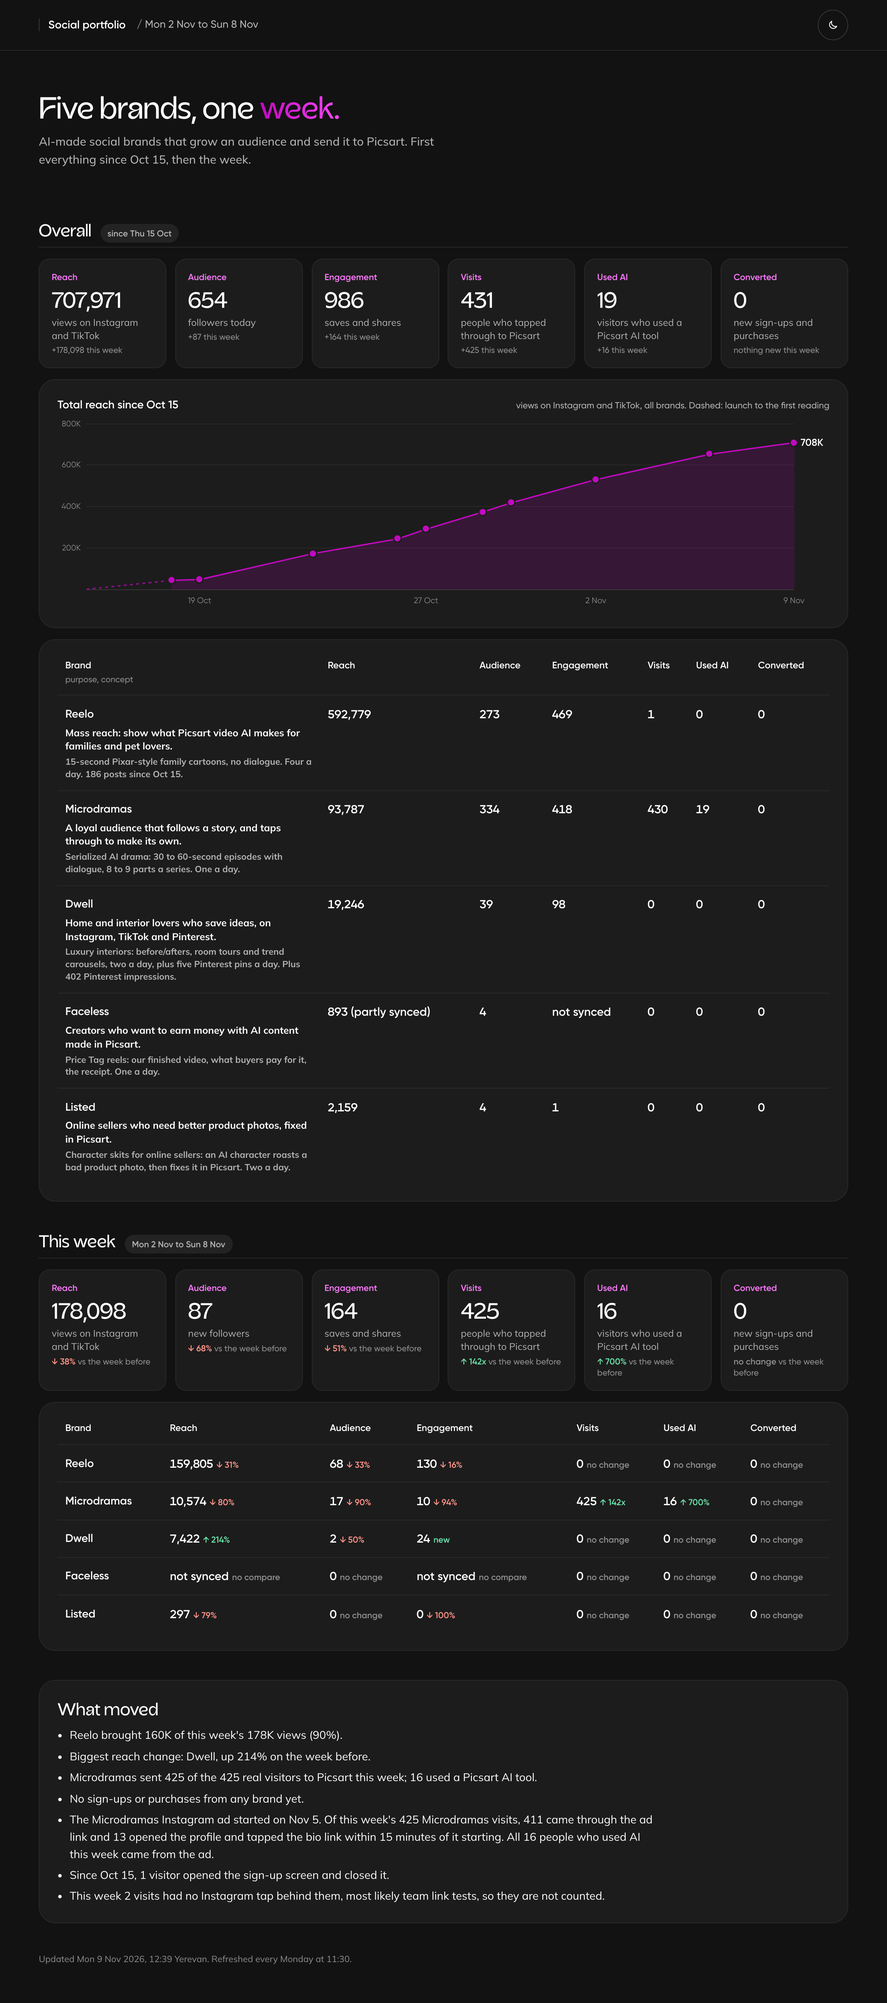
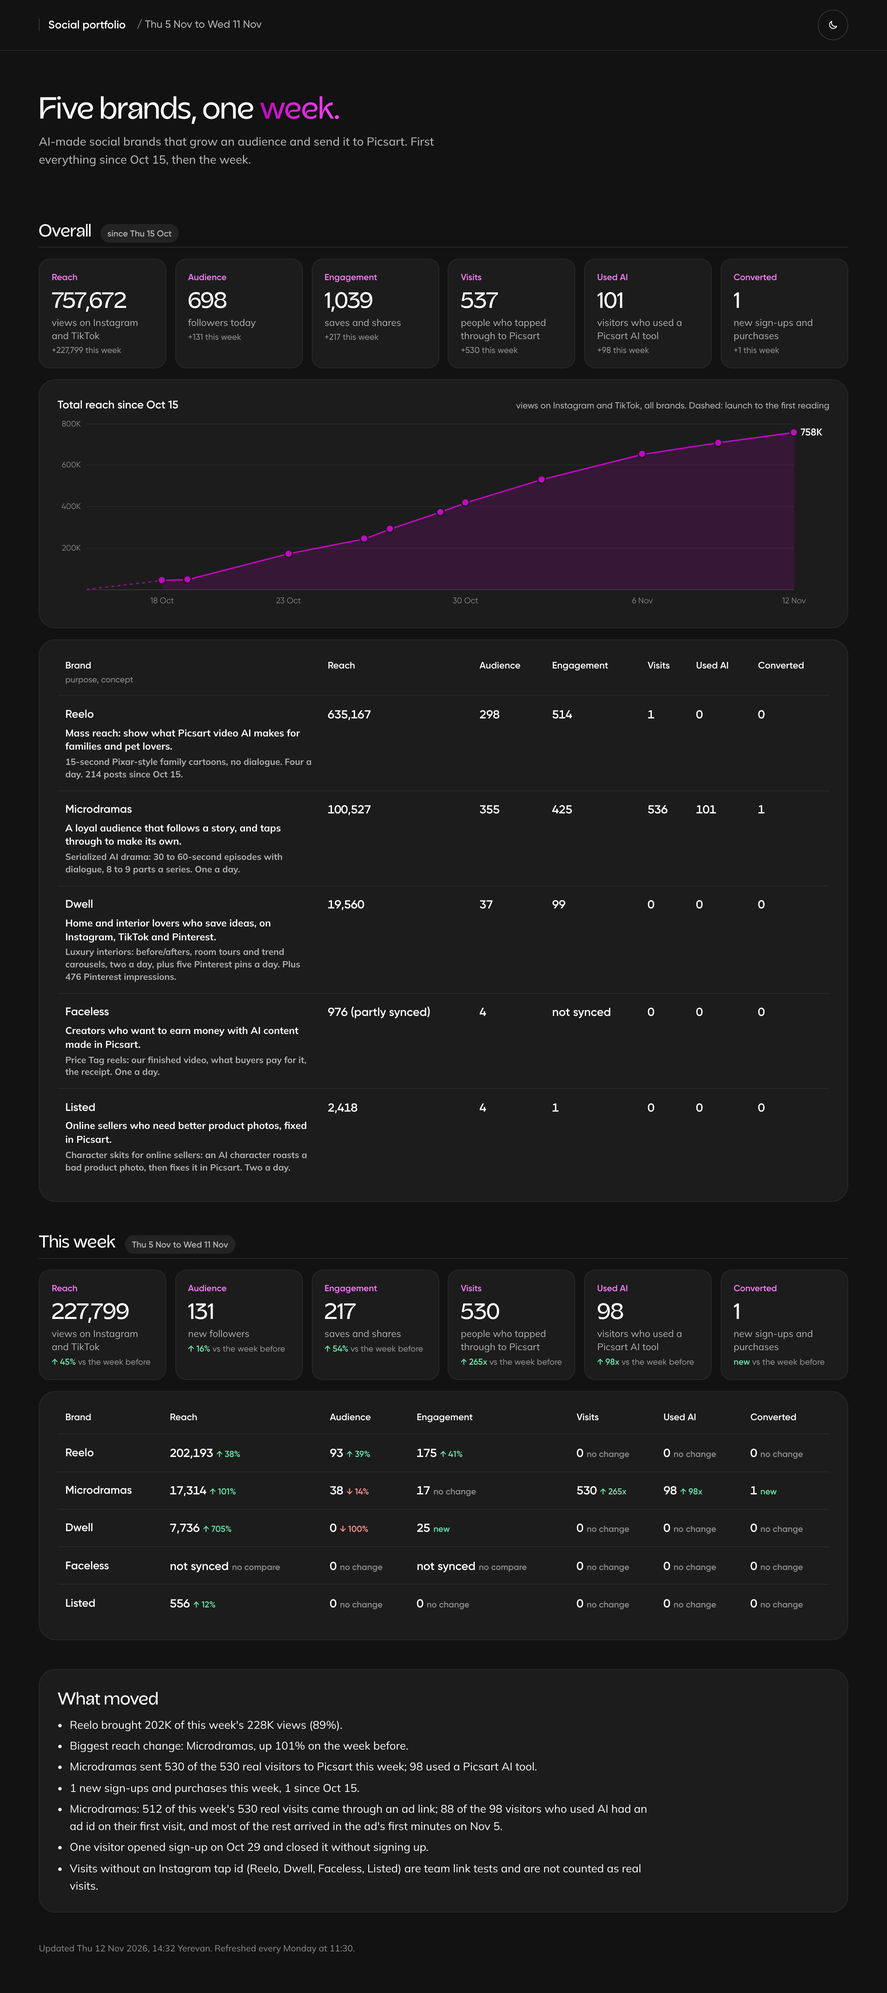
chore(portfolio): weekly refresh 2026-11-12

diff --git a/portfolio/index.html b/portfolio/index.html
@@ -94,7 +94,7 @@ small { display: block; color: var(--faint); font-family: var(--ui); font-weight
 <header class="top">
   <div class="top-in">
     <a class="brand" href="#main" aria-label="Social portfolio, back to top"><b>Social portfolio</b></a>
-    <span class="chname">/ Mon 2 Nov to Sun 8 Nov</span>
+    <span class="chname">/ Thu 5 Nov to Wed 11 Nov</span>
     <div class="tools">
       <button type="button" class="ibtn theme-btn" id="theme-btn" aria-label="Switch light or dark theme">
         <svg class="icon sun" aria-hidden="true"><use href="#i-sun"/></svg><svg class="icon moon" aria-hidden="true"><use href="#i-moon"/></svg>
@@ -110,33 +110,33 @@ small { display: block; color: var(--faint); font-family: var(--ui); font-weight
 
   <section class="sec" aria-labelledby="o-h">
     <div class="sec-head"><h2 id="o-h">Overall</h2><span class="pill">since Thu 15 Oct</span></div>
-    <div class="stats"><div class="stat"><span class="cls">Reach</span><b>707,971</b><span>views on Instagram and TikTok</span><small>+178,098 this week</small></div><div class="stat"><span class="cls">Audience</span><b>654</b><span>followers today</span><small>+87 this week</small></div><div class="stat"><span class="cls">Engagement</span><b>986</b><span>saves and shares</span><small>+164 this week</small></div><div class="stat"><span class="cls">Visits</span><b>431</b><span>people who tapped through to Picsart</span><small>+425 this week</small></div><div class="stat"><span class="cls">Used AI</span><b>19</b><span>visitors who used a Picsart AI tool</span><small>+16 this week</small></div><div class="stat"><span class="cls">Converted</span><b>0</b><span>new sign-ups and purchases</span><small>nothing new this week</small></div></div>
+    <div class="stats"><div class="stat"><span class="cls">Reach</span><b>757,672</b><span>views on Instagram and TikTok</span><small>+227,799 this week</small></div><div class="stat"><span class="cls">Audience</span><b>698</b><span>followers today</span><small>+131 this week</small></div><div class="stat"><span class="cls">Engagement</span><b>1,039</b><span>saves and shares</span><small>+217 this week</small></div><div class="stat"><span class="cls">Visits</span><b>537</b><span>people who tapped through to Picsart</span><small>+530 this week</small></div><div class="stat"><span class="cls">Used AI</span><b>101</b><span>visitors who used a Picsart AI tool</span><small>+98 this week</small></div><div class="stat"><span class="cls">Converted</span><b>1</b><span>new sign-ups and purchases</span><small>+1 this week</small></div></div>
     <div class="panel chart">
       <div class="chart-head"><h3>Total reach since Oct 15</h3><span class="legend">views on Instagram and TikTok, all brands. Dashed: launch to the first reading</span></div>
-      <div class="lc"><div class="plot"><span class="gl" style="top:75.00%"><em>200K</em></span><span class="gl" style="top:50.00%"><em>400K</em></span><span class="gl" style="top:25.00%"><em>600K</em></span><span class="gl" style="top:0.00%"><em>800K</em></span><svg viewBox="0 0 100 100" preserveAspectRatio="none" aria-hidden="true"><polygon points="12.00,100 12.00,94.57 16.00,94.08 32.00,78.43 44.00,69.54 48.00,63.68 56.00,53.35 60.00,47.79 72.00,33.77 88.00,18.51 100.00,11.50 100,100" class="area"/><line x1="0" y1="100" x2="12.00" y2="94.57" class="gap"/><polyline points="12.00,94.57 16.00,94.08 32.00,78.43 44.00,69.54 48.00,63.68 56.00,53.35 60.00,47.79 72.00,33.77 88.00,18.51 100.00,11.50" class="line"/></svg><i class="pt" style="left:12.00%;top:94.57%" title="Sun 18 Oct: 43,455 views since Oct 15"></i><i class="pt" style="left:16.00%;top:94.08%" title="Mon 19 Oct: 47,382 views since Oct 15"></i><i class="pt" style="left:32.00%;top:78.43%" title="Fri 23 Oct: 172,542 views since Oct 15"></i><i class="pt" style="left:44.00%;top:69.54%" title="Mon 26 Oct: 243,696 views since Oct 15"></i><i class="pt" style="left:48.00%;top:63.68%" title="Tue 27 Oct: 290,562 views since Oct 15"></i><i class="pt" style="left:56.00%;top:53.35%" title="Thu 29 Oct: 373,202 views since Oct 15"></i><i class="pt" style="left:60.00%;top:47.79%" title="Fri 30 Oct: 417,714 views since Oct 15"></i><i class="pt" style="left:72.00%;top:33.77%" title="Mon 2 Nov: 529,873 views since Oct 15"></i><i class="pt" style="left:88.00%;top:18.51%" title="Fri 6 Nov: 651,929 views since Oct 15"></i><i class="pt" style="left:100.00%;top:11.50%" title="Mon 9 Nov: 707,971 views since Oct 15"></i><b class="last" style="left:100.00%;top:11.50%">708K</b></div><div class="xl"><span style="left:16.00%">19 Oct</span><span style="left:48.00%">27 Oct</span><span style="left:72.00%">2 Nov</span><span style="left:100.00%">9 Nov</span></div></div>
+      <div class="lc"><div class="plot"><span class="gl" style="top:75.00%"><em>200K</em></span><span class="gl" style="top:50.00%"><em>400K</em></span><span class="gl" style="top:25.00%"><em>600K</em></span><span class="gl" style="top:0.00%"><em>800K</em></span><svg viewBox="0 0 100 100" preserveAspectRatio="none" aria-hidden="true"><polygon points="10.71,100 10.71,94.57 14.29,94.08 28.57,78.43 39.29,69.54 42.86,63.68 50.00,53.35 53.57,47.79 64.29,33.77 78.57,18.51 89.29,11.50 100.00,5.29 100,100" class="area"/><line x1="0" y1="100" x2="10.71" y2="94.57" class="gap"/><polyline points="10.71,94.57 14.29,94.08 28.57,78.43 39.29,69.54 42.86,63.68 50.00,53.35 53.57,47.79 64.29,33.77 78.57,18.51 89.29,11.50 100.00,5.29" class="line"/></svg><i class="pt" style="left:10.71%;top:94.57%" title="Sun 18 Oct: 43,455 views since Oct 15"></i><i class="pt" style="left:14.29%;top:94.08%" title="Mon 19 Oct: 47,382 views since Oct 15"></i><i class="pt" style="left:28.57%;top:78.43%" title="Fri 23 Oct: 172,542 views since Oct 15"></i><i class="pt" style="left:39.29%;top:69.54%" title="Mon 26 Oct: 243,696 views since Oct 15"></i><i class="pt" style="left:42.86%;top:63.68%" title="Tue 27 Oct: 290,562 views since Oct 15"></i><i class="pt" style="left:50.00%;top:53.35%" title="Thu 29 Oct: 373,202 views since Oct 15"></i><i class="pt" style="left:53.57%;top:47.79%" title="Fri 30 Oct: 417,714 views since Oct 15"></i><i class="pt" style="left:64.29%;top:33.77%" title="Mon 2 Nov: 529,873 views since Oct 15"></i><i class="pt" style="left:78.57%;top:18.51%" title="Fri 6 Nov: 651,929 views since Oct 15"></i><i class="pt" style="left:89.29%;top:11.50%" title="Mon 9 Nov: 707,983 views since Oct 15"></i><i class="pt" style="left:100.00%;top:5.29%" title="Thu 12 Nov: 757,672 views since Oct 15"></i><b class="last" style="left:100.00%;top:5.29%">758K</b></div><div class="xl"><span style="left:10.71%">18 Oct</span><span style="left:28.57%">23 Oct</span><span style="left:53.57%">30 Oct</span><span style="left:78.57%">6 Nov</span><span style="left:100.00%">12 Nov</span></div></div>
     </div>
     <div class="panel tbl">
       <table class="pf pf-all">
         <thead><tr><th scope="col">Brand<small>purpose, concept</small></th><th scope="col">Reach</th><th scope="col">Audience</th><th scope="col">Engagement</th><th scope="col">Visits</th><th scope="col">Used AI</th><th scope="col">Converted</th></tr></thead>
-        <tbody><tr><th scope="row"><span class="bn">Reelo</span><span class="pp">Mass reach: show what Picsart video AI makes for families and pet lovers.</span><span class="cc">15-second Pixar-style family cartoons, no dialogue. Four a day. 186 posts since Oct 15.</span></th><td data-label="Reach"><b class="n">592,779</b></td><td data-label="Audience"><b class="n">273</b></td><td data-label="Engagement"><b class="n">469</b></td><td data-label="Visits"><b class="n">1</b></td><td data-label="Used AI"><b class="n">0</b></td><td data-label="Converted"><b class="n">0</b></td></tr><tr><th scope="row"><span class="bn">Microdramas</span><span class="pp">A loyal audience that follows a story, and taps through to make its own.</span><span class="cc">Serialized AI drama: 30 to 60-second episodes with dialogue, 8 to 9 parts a series. One a day. </span></th><td data-label="Reach"><b class="n">93,787</b></td><td data-label="Audience"><b class="n">334</b></td><td data-label="Engagement"><b class="n">418</b></td><td data-label="Visits"><b class="n">430</b></td><td data-label="Used AI"><b class="n">19</b></td><td data-label="Converted"><b class="n">0</b></td></tr><tr><th scope="row"><span class="bn">Dwell</span><span class="pp">Home and interior lovers who save ideas, on Instagram, TikTok and Pinterest.</span><span class="cc">Luxury interiors: before/afters, room tours and trend carousels, two a day, plus five Pinterest pins a day. Plus 402 Pinterest impressions. </span></th><td data-label="Reach"><b class="n">19,246</b></td><td data-label="Audience"><b class="n">39</b></td><td data-label="Engagement"><b class="n">98</b></td><td data-label="Visits"><b class="n">0</b></td><td data-label="Used AI"><b class="n">0</b></td><td data-label="Converted"><b class="n">0</b></td></tr><tr><th scope="row"><span class="bn">Faceless</span><span class="pp">Creators who want to earn money with AI content made in Picsart.</span><span class="cc">Price Tag reels: our finished video, what buyers pay for it, the receipt. One a day. </span></th><td data-label="Reach"><b class="n">893 (partly synced)</b></td><td data-label="Audience"><b class="n">4</b></td><td data-label="Engagement"><b class="n">not synced</b></td><td data-label="Visits"><b class="n">0</b></td><td data-label="Used AI"><b class="n">0</b></td><td data-label="Converted"><b class="n">0</b></td></tr><tr><th scope="row"><span class="bn">Listed</span><span class="pp">Online sellers who need better product photos, fixed in Picsart.</span><span class="cc">Character skits for online sellers: an AI character roasts a bad product photo, then fixes it in Picsart. Two a day. </span></th><td data-label="Reach"><b class="n">2,159</b></td><td data-label="Audience"><b class="n">4</b></td><td data-label="Engagement"><b class="n">1</b></td><td data-label="Visits"><b class="n">0</b></td><td data-label="Used AI"><b class="n">0</b></td><td data-label="Converted"><b class="n">0</b></td></tr></tbody>
+        <tbody><tr><th scope="row"><span class="bn">Reelo</span><span class="pp">Mass reach: show what Picsart video AI makes for families and pet lovers.</span><span class="cc">15-second Pixar-style family cartoons, no dialogue. Four a day. 214 posts since Oct 15.</span></th><td data-label="Reach"><b class="n">635,167</b></td><td data-label="Audience"><b class="n">298</b></td><td data-label="Engagement"><b class="n">514</b></td><td data-label="Visits"><b class="n">1</b></td><td data-label="Used AI"><b class="n">0</b></td><td data-label="Converted"><b class="n">0</b></td></tr><tr><th scope="row"><span class="bn">Microdramas</span><span class="pp">A loyal audience that follows a story, and taps through to make its own.</span><span class="cc">Serialized AI drama: 30 to 60-second episodes with dialogue, 8 to 9 parts a series. One a day. </span></th><td data-label="Reach"><b class="n">100,527</b></td><td data-label="Audience"><b class="n">355</b></td><td data-label="Engagement"><b class="n">425</b></td><td data-label="Visits"><b class="n">536</b></td><td data-label="Used AI"><b class="n">101</b></td><td data-label="Converted"><b class="n">1</b></td></tr><tr><th scope="row"><span class="bn">Dwell</span><span class="pp">Home and interior lovers who save ideas, on Instagram, TikTok and Pinterest.</span><span class="cc">Luxury interiors: before/afters, room tours and trend carousels, two a day, plus five Pinterest pins a day. Plus 476 Pinterest impressions. </span></th><td data-label="Reach"><b class="n">19,560</b></td><td data-label="Audience"><b class="n">37</b></td><td data-label="Engagement"><b class="n">99</b></td><td data-label="Visits"><b class="n">0</b></td><td data-label="Used AI"><b class="n">0</b></td><td data-label="Converted"><b class="n">0</b></td></tr><tr><th scope="row"><span class="bn">Faceless</span><span class="pp">Creators who want to earn money with AI content made in Picsart.</span><span class="cc">Price Tag reels: our finished video, what buyers pay for it, the receipt. One a day. </span></th><td data-label="Reach"><b class="n">976 (partly synced)</b></td><td data-label="Audience"><b class="n">4</b></td><td data-label="Engagement"><b class="n">not synced</b></td><td data-label="Visits"><b class="n">0</b></td><td data-label="Used AI"><b class="n">0</b></td><td data-label="Converted"><b class="n">0</b></td></tr><tr><th scope="row"><span class="bn">Listed</span><span class="pp">Online sellers who need better product photos, fixed in Picsart.</span><span class="cc">Character skits for online sellers: an AI character roasts a bad product photo, then fixes it in Picsart. Two a day. </span></th><td data-label="Reach"><b class="n">2,418</b></td><td data-label="Audience"><b class="n">4</b></td><td data-label="Engagement"><b class="n">1</b></td><td data-label="Visits"><b class="n">0</b></td><td data-label="Used AI"><b class="n">0</b></td><td data-label="Converted"><b class="n">0</b></td></tr></tbody>
       </table>
     </div>
   </section>
 
   <section class="sec" aria-labelledby="w-h">
-    <div class="sec-head"><h2 id="w-h">This week</h2><span class="pill">Mon 2 Nov to Sun 8 Nov</span></div>
-    <div class="stats"><div class="stat"><span class="cls">Reach</span><b>178,098</b><span>views on Instagram and TikTok</span><small><span class="wow down">&darr; 38%</span> vs the week before</small></div><div class="stat"><span class="cls">Audience</span><b>87</b><span>new followers</span><small><span class="wow down">&darr; 68%</span> vs the week before</small></div><div class="stat"><span class="cls">Engagement</span><b>164</b><span>saves and shares</span><small><span class="wow down">&darr; 51%</span> vs the week before</small></div><div class="stat"><span class="cls">Visits</span><b>425</b><span>people who tapped through to Picsart</span><small><span class="wow up">&uarr; 142x</span> vs the week before</small></div><div class="stat"><span class="cls">Used AI</span><b>16</b><span>visitors who used a Picsart AI tool</span><small><span class="wow up">&uarr; 700%</span> vs the week before</small></div><div class="stat"><span class="cls">Converted</span><b>0</b><span>new sign-ups and purchases</span><small><span class="wow">no change</span> vs the week before</small></div></div>
+    <div class="sec-head"><h2 id="w-h">This week</h2><span class="pill">Thu 5 Nov to Wed 11 Nov</span></div>
+    <div class="stats"><div class="stat"><span class="cls">Reach</span><b>227,799</b><span>views on Instagram and TikTok</span><small><span class="wow up">&uarr; 45%</span> vs the week before</small></div><div class="stat"><span class="cls">Audience</span><b>131</b><span>new followers</span><small><span class="wow up">&uarr; 16%</span> vs the week before</small></div><div class="stat"><span class="cls">Engagement</span><b>217</b><span>saves and shares</span><small><span class="wow up">&uarr; 54%</span> vs the week before</small></div><div class="stat"><span class="cls">Visits</span><b>530</b><span>people who tapped through to Picsart</span><small><span class="wow up">&uarr; 265x</span> vs the week before</small></div><div class="stat"><span class="cls">Used AI</span><b>98</b><span>visitors who used a Picsart AI tool</span><small><span class="wow up">&uarr; 98x</span> vs the week before</small></div><div class="stat"><span class="cls">Converted</span><b>1</b><span>new sign-ups and purchases</span><small><span class="wow up">new</span> vs the week before</small></div></div>
     <div class="panel tbl">
       <table class="pf pf-week">
         <thead><tr><th scope="col">Brand</th><th scope="col">Reach</th><th scope="col">Audience</th><th scope="col">Engagement</th><th scope="col">Visits</th><th scope="col">Used AI</th><th scope="col">Converted</th></tr></thead>
-        <tbody><tr><th scope="row"><span class="bn">Reelo</span></th><td data-label="Reach"><b class="n">159,805</b><span class="wow down">&darr; 31%</span></td><td data-label="Audience"><b class="n">68</b><span class="wow down">&darr; 33%</span></td><td data-label="Engagement"><b class="n">130</b><span class="wow down">&darr; 16%</span></td><td data-label="Visits"><b class="n">0</b><span class="wow">no change</span></td><td data-label="Used AI"><b class="n">0</b><span class="wow">no change</span></td><td data-label="Converted"><b class="n">0</b><span class="wow">no change</span></td></tr><tr><th scope="row"><span class="bn">Microdramas</span></th><td data-label="Reach"><b class="n">10,574</b><span class="wow down">&darr; 80%</span></td><td data-label="Audience"><b class="n">17</b><span class="wow down">&darr; 90%</span></td><td data-label="Engagement"><b class="n">10</b><span class="wow down">&darr; 94%</span></td><td data-label="Visits"><b class="n">425</b><span class="wow up">&uarr; 142x</span></td><td data-label="Used AI"><b class="n">16</b><span class="wow up">&uarr; 700%</span></td><td data-label="Converted"><b class="n">0</b><span class="wow">no change</span></td></tr><tr><th scope="row"><span class="bn">Dwell</span></th><td data-label="Reach"><b class="n">7,422</b><span class="wow up">&uarr; 214%</span></td><td data-label="Audience"><b class="n">2</b><span class="wow down">&darr; 50%</span></td><td data-label="Engagement"><b class="n">24</b><span class="wow up">new</span></td><td data-label="Visits"><b class="n">0</b><span class="wow">no change</span></td><td data-label="Used AI"><b class="n">0</b><span class="wow">no change</span></td><td data-label="Converted"><b class="n">0</b><span class="wow">no change</span></td></tr><tr><th scope="row"><span class="bn">Faceless</span></th><td data-label="Reach"><b class="n">not synced</b><span class="wow">no compare</span></td><td data-label="Audience"><b class="n">0</b><span class="wow">no change</span></td><td data-label="Engagement"><b class="n">not synced</b><span class="wow">no compare</span></td><td data-label="Visits"><b class="n">0</b><span class="wow">no change</span></td><td data-label="Used AI"><b class="n">0</b><span class="wow">no change</span></td><td data-label="Converted"><b class="n">0</b><span class="wow">no change</span></td></tr><tr><th scope="row"><span class="bn">Listed</span></th><td data-label="Reach"><b class="n">297</b><span class="wow down">&darr; 79%</span></td><td data-label="Audience"><b class="n">0</b><span class="wow">no change</span></td><td data-label="Engagement"><b class="n">0</b><span class="wow down">&darr; 100%</span></td><td data-label="Visits"><b class="n">0</b><span class="wow">no change</span></td><td data-label="Used AI"><b class="n">0</b><span class="wow">no change</span></td><td data-label="Converted"><b class="n">0</b><span class="wow">no change</span></td></tr></tbody>
+        <tbody><tr><th scope="row"><span class="bn">Reelo</span></th><td data-label="Reach"><b class="n">202,193</b><span class="wow up">&uarr; 38%</span></td><td data-label="Audience"><b class="n">93</b><span class="wow up">&uarr; 39%</span></td><td data-label="Engagement"><b class="n">175</b><span class="wow up">&uarr; 41%</span></td><td data-label="Visits"><b class="n">0</b><span class="wow">no change</span></td><td data-label="Used AI"><b class="n">0</b><span class="wow">no change</span></td><td data-label="Converted"><b class="n">0</b><span class="wow">no change</span></td></tr><tr><th scope="row"><span class="bn">Microdramas</span></th><td data-label="Reach"><b class="n">17,314</b><span class="wow up">&uarr; 101%</span></td><td data-label="Audience"><b class="n">38</b><span class="wow down">&darr; 14%</span></td><td data-label="Engagement"><b class="n">17</b><span class="wow">no change</span></td><td data-label="Visits"><b class="n">530</b><span class="wow up">&uarr; 265x</span></td><td data-label="Used AI"><b class="n">98</b><span class="wow up">&uarr; 98x</span></td><td data-label="Converted"><b class="n">1</b><span class="wow up">new</span></td></tr><tr><th scope="row"><span class="bn">Dwell</span></th><td data-label="Reach"><b class="n">7,736</b><span class="wow up">&uarr; 705%</span></td><td data-label="Audience"><b class="n">0</b><span class="wow down">&darr; 100%</span></td><td data-label="Engagement"><b class="n">25</b><span class="wow up">new</span></td><td data-label="Visits"><b class="n">0</b><span class="wow">no change</span></td><td data-label="Used AI"><b class="n">0</b><span class="wow">no change</span></td><td data-label="Converted"><b class="n">0</b><span class="wow">no change</span></td></tr><tr><th scope="row"><span class="bn">Faceless</span></th><td data-label="Reach"><b class="n">not synced</b><span class="wow">no compare</span></td><td data-label="Audience"><b class="n">0</b><span class="wow">no change</span></td><td data-label="Engagement"><b class="n">not synced</b><span class="wow">no compare</span></td><td data-label="Visits"><b class="n">0</b><span class="wow">no change</span></td><td data-label="Used AI"><b class="n">0</b><span class="wow">no change</span></td><td data-label="Converted"><b class="n">0</b><span class="wow">no change</span></td></tr><tr><th scope="row"><span class="bn">Listed</span></th><td data-label="Reach"><b class="n">556</b><span class="wow up">&uarr; 12%</span></td><td data-label="Audience"><b class="n">0</b><span class="wow">no change</span></td><td data-label="Engagement"><b class="n">0</b><span class="wow">no change</span></td><td data-label="Visits"><b class="n">0</b><span class="wow">no change</span></td><td data-label="Used AI"><b class="n">0</b><span class="wow">no change</span></td><td data-label="Converted"><b class="n">0</b><span class="wow">no change</span></td></tr></tbody>
       </table>
     </div>
   </section>
 
-  <section class="panel moved" aria-labelledby="m-h"><h2 id="m-h">What moved</h2><ul><li>Reelo brought 160K of this week&#x27;s 178K views (90%).</li><li>Biggest reach change: Dwell, up 214% on the week before.</li><li>Microdramas sent 425 of the 425 real visitors to Picsart this week; 16 used a Picsart AI tool.</li><li>No sign-ups or purchases from any brand yet.</li><li>The Microdramas Instagram ad started on Nov 5. Of this week&#x27;s 425 Microdramas visits, 411 came through the ad link and 13 opened the profile and tapped the bio link within 15 minutes of it starting. All 16 people who used AI this week came from the ad.</li><li>Since Oct 15, 1 visitor opened the sign-up screen and closed it.</li><li>This week 2 visits had no Instagram tap behind them, most likely team link tests, so they are not counted.</li></ul></section>
+  <section class="panel moved" aria-labelledby="m-h"><h2 id="m-h">What moved</h2><ul><li>Reelo brought 202K of this week&#x27;s 228K views (89%).</li><li>Biggest reach change: Microdramas, up 101% on the week before.</li><li>Microdramas sent 530 of the 530 real visitors to Picsart this week; 98 used a Picsart AI tool.</li><li>1 new sign-ups and purchases this week, 1 since Oct 15.</li><li>Microdramas: 512 of this week&#x27;s 530 real visits came through an ad link; 88 of the 98 visitors who used AI had an ad id on their first visit, and most of the rest arrived in the ad&#x27;s first minutes on Nov 5.</li><li>One visitor opened sign-up on Oct 29 and closed it without signing up.</li><li>Visits without an Instagram tap id (Reelo, Dwell, Faceless, Listed) are team link tests and are not counted as real visits.</li></ul></section>
   <footer class="foot">
-    <p>Updated Mon 9 Nov 2026, 12:39 Yerevan. Refreshed every Monday at 11:30.</p>
+    <p>Updated Thu 12 Nov 2026, 14:32 Yerevan. Refreshed every Monday at 11:30.</p>
   </footer>
 </main>
 <script>
